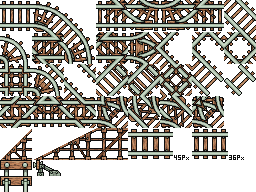
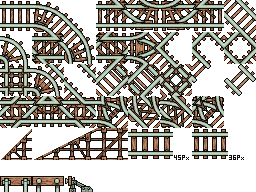
rubber baby buggy bumpers

Changed region(s): [[0.0, 0.8125, 0.375, 1.0], [0.75, 0.3438, 0.875, 0.5]]

diff --git a/DwarfCorp/DwarfCorpXNA/Voxels/Rail/RailSprite.cs b/DwarfCorp/DwarfCorpXNA/Voxels/Rail/RailSprite.cs
@@ -11,11 +11,12 @@ namespace DwarfCorp.Rail
 {
     public class RailSprite : Tinter, IRenderableComponent
     {
+        private const float sqrt2 = 1.41421356237f;
         private SpriteSheet Sheet;
         private Point Frame;
-        private ExtendedVertex[] Verticies;
-        private int[] Indicies;
+        private RawPrimitive Primitive;
         public float[] VertexHeightOffsets = new float[] { 0.0f, 0.0f, 0.0f, 0.0f };
+        private Orientation Orientation;
 
         public RailSprite(
             ComponentManager Manager,
@@ -33,10 +34,16 @@ namespace DwarfCorp.Rail
         {
         }
         
-        public void SetFrame(Point Frame)
+        public void SetFrame(Point Frame, Orientation Orientation)
         {
             this.Frame = Frame;
-            Verticies = null;
+            this.Orientation = Orientation;
+            ResetPrimitive();
+        }
+
+        public void ResetPrimitive()
+        {
+            Primitive = null;
         }
 
         // Perhaps should be handled in base class?
@@ -63,7 +70,29 @@ namespace DwarfCorp.Rail
             Render(gameTime, chunks, camera, spriteBatch, graphicsDevice, effect, false);
         }
 
-        public void Render(DwarfTime gameTime,
+        private float AngleBetweenVectors(Vector2 A, Vector2 B)
+        {
+            A.Normalize();
+            B.Normalize();
+            float DotProduct = Vector2.Dot(A, B);
+            DotProduct = MathHelper.Clamp(DotProduct, -1.0f, 1.0f);
+            float Angle = (float)System.Math.Acos(DotProduct);
+            if (CrossZ(A, B) < 0) return -Angle;
+            return Angle;
+        }
+
+        private float CrossZ(Vector2 A, Vector2 B)
+        {
+            return (B.Y * A.X) - (B.X * A.Y);
+        }
+
+        private float Sign(float F)
+        {
+            if (F < 0) return -1.0f;
+            return 1.0f;
+        }
+
+        public override void Render(DwarfTime gameTime,
             ChunkManager chunks,
             Camera camera,
             SpriteBatch spriteBatch,
@@ -74,39 +103,86 @@ namespace DwarfCorp.Rail
             if (!IsVisible)
                 return;
 
-            if (Verticies == null)
+            if (Primitive == null)
             {
-                float normalizeX = Sheet.FrameWidth / (float)(Sheet.Width);
-                float normalizeY = Sheet.FrameHeight / (float)(Sheet.Height);
+                var bounds = Vector4.Zero;
+                var uvs = Sheet.GenerateTileUVs(Frame, out bounds);
 
-                List<Vector2> uvs = new List<Vector2>
+                var transform = Matrix.CreateRotationY((float)Math.PI * 0.5f * (float)Orientation);
+
+                Primitive = new RawPrimitive();
+                Primitive.AddVertex(new ExtendedVertex(Vector3.Transform(new Vector3(-0.5f, VertexHeightOffsets[0], 0.5f), transform), Color.White, Color.White, uvs[0], bounds));
+                Primitive.AddVertex(new ExtendedVertex(Vector3.Transform(new Vector3(0.5f, VertexHeightOffsets[1], 0.5f), transform), Color.White, Color.White, uvs[1], bounds));
+                Primitive.AddVertex(new ExtendedVertex(Vector3.Transform(new Vector3(0.5f, VertexHeightOffsets[2], -0.5f), transform), Color.White, Color.White, uvs[2], bounds));
+                Primitive.AddVertex(new ExtendedVertex(Vector3.Transform(new Vector3(-0.5f, VertexHeightOffsets[3], -0.5f), transform), Color.White, Color.White, uvs[3], bounds));
+                Primitive.AddIndicies(new short[] { 0, 1, 3, 1, 2, 3 });
+
+                var bumperBackBounds = Vector4.Zero;
+                var bumperBackUvs = Sheet.GenerateTileUVs(new Point(0, 5), out bumperBackBounds);
+                var bumperFrontBounds = Vector4.Zero;
+                var bumperFrontUvs = Sheet.GenerateTileUVs(new Point(1, 5), out bumperFrontBounds);
+                var bumperSideBounds = Vector4.Zero;
+                var bumperSideUvs = Sheet.GenerateTileUVs(new Point(2, 5), out bumperSideBounds);
+
+                var railEntity = Parent as RailEntity;
+                foreach (var connection in railEntity.GetTransformedConnections())
                 {
-                    new Vector2(0.0f, 0.0f),
-                    new Vector2(1.0f, 0.0f),
-                    new Vector2(1.0f, 1.0f),
-                    new Vector2(0.0f, 1.0f)
-                };
+                    var matchingNeighbor = railEntity.NeighborRails.FirstOrDefault(n => (n.Position - connection.Item1).LengthSquared() < 0.001f);
+                    if (matchingNeighbor == null)
+                    {
+                        var bumperOffset = connection.Item1 - GlobalTransform.Translation;
+                        var bumperGap = Vector3.Normalize(bumperOffset) * 0.1f;
+                        var bumperAngle = AngleBetweenVectors(new Vector2(bumperOffset.X, bumperOffset.Z), new Vector2(0, 0.5f));
 
-                Vector2 pixelCoords = new Vector2(Frame.X * Sheet.FrameWidth, Frame.Y * Sheet.FrameHeight);
-                Vector2 normalizedCoords = new Vector2(pixelCoords.X / (float)Sheet.Width, pixelCoords.Y / (float)Sheet.Height);
-                var bounds = new Vector4(normalizedCoords.X + 0.001f, normalizedCoords.Y + 0.001f, normalizedCoords.X + normalizeX - 0.001f, normalizedCoords.Y + normalizeY - 0.001f);
+                        var xDiag = bumperOffset.X < -0.001f || bumperOffset.X > 0.001f;
+                        var zDiag = bumperOffset.Z < -0.001f || bumperOffset.Z > 0.001f;
 
-                for (int vert = 0; vert < 4; vert++)
-                    uvs[vert] = new Vector2(normalizedCoords.X + uvs[vert].X * normalizeX, normalizedCoords.Y + uvs[vert].Y * normalizeY);
+                        if (xDiag && zDiag)
+                        {
+                            var y = bumperOffset.Y;
+                            bumperOffset *= sqrt2;
+                            bumperOffset.Y = y;
 
-                Verticies = new[]
-                {
-                    new ExtendedVertex(new Vector3(-0.5f, VertexHeightOffsets[0], 0.5f), Color.White, Color.White, uvs[0], bounds),
-                    new ExtendedVertex(new Vector3(0.5f, VertexHeightOffsets[1], 0.5f), Color.White, Color.White, uvs[1], bounds),
-                    new ExtendedVertex(new Vector3(0.5f, VertexHeightOffsets[2], -0.5f), Color.White, Color.White, uvs[2], bounds),
-                    new ExtendedVertex(new Vector3(-0.5f, VertexHeightOffsets[3], -0.5f), Color.White, Color.White, uvs[3], bounds)
-                };
+                            var endBounds = Vector4.Zero;
+                            var endUvs = Sheet.GenerateTileUVs(new Point(6, 2), out endBounds);
+                            Primitive.AddQuad(
+                                Matrix.CreateRotationY((float)Math.PI * 1.25f)
+                                * Matrix.CreateRotationY(bumperAngle)
+                                * Matrix.CreateTranslation(new Vector3(Sign(bumperOffset.X), 0.0f, Sign(bumperOffset.Z))),
+                                Color.White, Color.White, endUvs, endBounds);
+                        }
 
-                Indicies = new int[]
-                {
-                    0, 1, 3,
-                    1, 2, 3
-                };
+                        Primitive.AddQuad(
+                            Matrix.CreateRotationX(-(float)Math.PI * 0.5f)
+                            * Matrix.CreateTranslation(0.0f, 0.3f, -0.2f)
+                            * Matrix.CreateRotationY(bumperAngle)
+                            * Matrix.CreateTranslation(bumperOffset + bumperGap),
+                            Color.White, Color.White, bumperBackUvs, bumperBackBounds);
+
+                        Primitive.AddQuad(
+                            Matrix.CreateRotationX(-(float)Math.PI * 0.5f)
+                            * Matrix.CreateTranslation(0.0f, 0.3f, -0.2f)
+                            * Matrix.CreateRotationY(bumperAngle)
+                            * Matrix.CreateTranslation(bumperOffset),
+                            Color.White, Color.White, bumperFrontUvs, bumperFrontBounds);
+
+                        Primitive.AddQuad(
+                            Matrix.CreateRotationX(-(float)Math.PI * 0.5f)
+                            * Matrix.CreateRotationY(-(float)Math.PI * 0.5f)
+                            * Matrix.CreateTranslation(0.3f, 0.3f, 0.18f)
+                            * Matrix.CreateRotationY(bumperAngle)
+                            * Matrix.CreateTranslation(bumperOffset),
+                            Color.White, Color.White, bumperSideUvs, bumperSideBounds);
+
+                        Primitive.AddQuad(
+                            Matrix.CreateRotationX(-(float)Math.PI * 0.5f)
+                            * Matrix.CreateRotationY(-(float)Math.PI * 0.5f)
+                            * Matrix.CreateTranslation(-0.3f, 0.3f, 0.18f)
+                            * Matrix.CreateRotationY(bumperAngle)
+                            * Matrix.CreateTranslation(bumperOffset),
+                            Color.White, Color.White, bumperSideUvs, bumperSideBounds);
+                    }
+                }
             }
 
             // Everything that draws should set it's tint, making this pointless.
@@ -123,7 +199,7 @@ namespace DwarfCorp.Rail
             foreach (EffectPass pass in effect.CurrentTechnique.Passes)
             {
                 pass.Apply();
-                graphicsDevice.DrawUserIndexedPrimitives(PrimitiveType.TriangleList, Verticies, 0, 4, Indicies, 0, 2);
+                Primitive.Render(graphicsDevice);
             }
 
             effect.VertexColorTint = origTint;

diff --git a/DwarfCorp/DwarfCorpXNA/Voxels/Rail/RailEntity.cs b/DwarfCorp/DwarfCorpXNA/Voxels/Rail/RailEntity.cs
@@ -229,6 +229,11 @@ namespace DwarfCorp.Rail
         private void DetachNeighbor(uint ID)
         {
             NeighborRails.RemoveAll(connection => connection.NeighborID == ID);
+
+            var spriteChild = EnumerateChildren().OfType<RailSprite>().FirstOrDefault() as RailSprite;
+
+            if (spriteChild != null)
+                spriteChild.ResetPrimitive();
         }
 
         private void AttachToNeighbors()
@@ -261,6 +266,11 @@ namespace DwarfCorp.Rail
                 NeighborID = ID,
                 Position = Position
             });
+
+            var spriteChild = EnumerateChildren().OfType<RailSprite>().FirstOrDefault() as RailSprite;
+
+            if (spriteChild != null)
+                spriteChild.ResetPrimitive();
         }
 
         public override void Delete()
@@ -289,7 +299,7 @@ namespace DwarfCorp.Rail
 
             if (spriteChild != null)
             {
-                spriteChild.LocalTransform = Matrix.CreateRotationY((float)Math.PI * 0.5f * (float)Piece.Orientation);
+                //spriteChild.LocalTransform = Matrix.CreateRotationY((float)Math.PI * 0.5f * (float)Piece.Orientation);
 
                 switch (piece.Shape)
                 {
@@ -313,13 +323,14 @@ namespace DwarfCorp.Rail
                         break;
                 }
 
-                spriteChild.SetFrame(piece.Tile);
+                spriteChild.SetFrame(piece.Tile, Piece.Orientation);
+                spriteChild.ResetPrimitive();
             }
 
             // Hack to make the listener update it's damn bounding box
             EnumerateChildren().OfType<GenericVoxelListener>().FirstOrDefault().LocalTransform = Matrix.Identity;
 
-            AttachToNeighbors();
+            AttachToNeighbors();            
         }
     }
 }

diff --git a/DwarfCorp/DwarfCorpXNA/Graphics/Primitives/RawPrimitive.cs b/DwarfCorp/DwarfCorpXNA/Graphics/Primitives/RawPrimitive.cs
@@ -42,6 +42,37 @@ namespace DwarfCorp
             IndexCount += 1;
         }
 
+        public void AddIndicies(short[] Indicies)
+        {
+            EnsureSpace(ref Indexes, IndexCount + Indicies.Length);
+            for (var i = 0; i < Indicies.Length; ++i)
+            {
+                Indexes[IndexCount] = Indicies[i];
+                IndexCount += 1;
+            }
+        }
+
+        public void AddOffsetIndicies(short[] Indicies, int BaseIndex)
+        {
+            EnsureSpace(ref Indexes, IndexCount + Indicies.Length);
+            for (var i = 0; i < Indicies.Length; ++i)
+            {
+                Indexes[IndexCount] = (short)(Indicies[i] + BaseIndex);
+                IndexCount += 1;
+            }
+        }
+
+        public void AddQuad(Matrix Transform, Color Color, Color VertColor, Vector2[] Uvs, Vector4 Bounds)
+        {
+            var baseIndex = VertexCount;
+            AddVertex(new ExtendedVertex(Vector3.Transform(new Vector3(-0.5f, 0.0f, 0.5f), Transform), Color, VertColor, Uvs[0], Bounds));
+            AddVertex(new ExtendedVertex(Vector3.Transform(new Vector3(0.5f, 0.0f, 0.5f), Transform), Color, VertColor, Uvs[1], Bounds));
+            AddVertex(new ExtendedVertex(Vector3.Transform(new Vector3(0.5f, 0.0f, -0.5f), Transform), Color, VertColor, Uvs[2], Bounds));
+            AddVertex(new ExtendedVertex(Vector3.Transform(new Vector3(-0.5f, 0.0f, -0.5f), Transform), Color, VertColor, Uvs[3], Bounds));
+
+            AddOffsetIndicies(new short[] { 0, 1, 3, 1, 2, 3 }, baseIndex);
+        }
+
         public void Reset()
         {
             IndexCount = 0;

diff --git a/DwarfCorp/DwarfCorpXNA/Graphics/Drawing/SpriteSheet.cs b/DwarfCorp/DwarfCorpXNA/Graphics/Drawing/SpriteSheet.cs
@@ -146,5 +146,28 @@ namespace DwarfCorp
         {
             return new NamedImageFrame(AssetName, new Rectangle(position.X * FrameWidth, position.Y * FrameHeight, FrameWidth, FrameHeight));
         }
+
+        public Vector2[] GenerateTileUVs(Point Frame, out Vector4 Bounds)
+        {
+            float normalizeX = FrameWidth / (float)(Width);
+            float normalizeY = FrameHeight / (float)(Height);
+
+            var uvs = new Vector2[]
+                {
+                    new Vector2(0.0f, 0.0f),
+                    new Vector2(1.0f, 0.0f),
+                    new Vector2(1.0f, 1.0f),
+                    new Vector2(0.0f, 1.0f)
+                };
+
+            Vector2 pixelCoords = new Vector2(Frame.X * FrameWidth, Frame.Y * FrameHeight);
+            Vector2 normalizedCoords = new Vector2(pixelCoords.X / (float)Width, pixelCoords.Y / (float)Height);
+            Bounds = new Vector4(normalizedCoords.X + 0.001f, normalizedCoords.Y + 0.001f, normalizedCoords.X + normalizeX - 0.001f, normalizedCoords.Y + normalizeY - 0.001f);
+
+            for (int vert = 0; vert < 4; vert++)
+                uvs[vert] = new Vector2(normalizedCoords.X + uvs[vert].X * normalizeX, normalizedCoords.Y + uvs[vert].Y * normalizeY);
+
+            return uvs;
+        }
     }
 }
